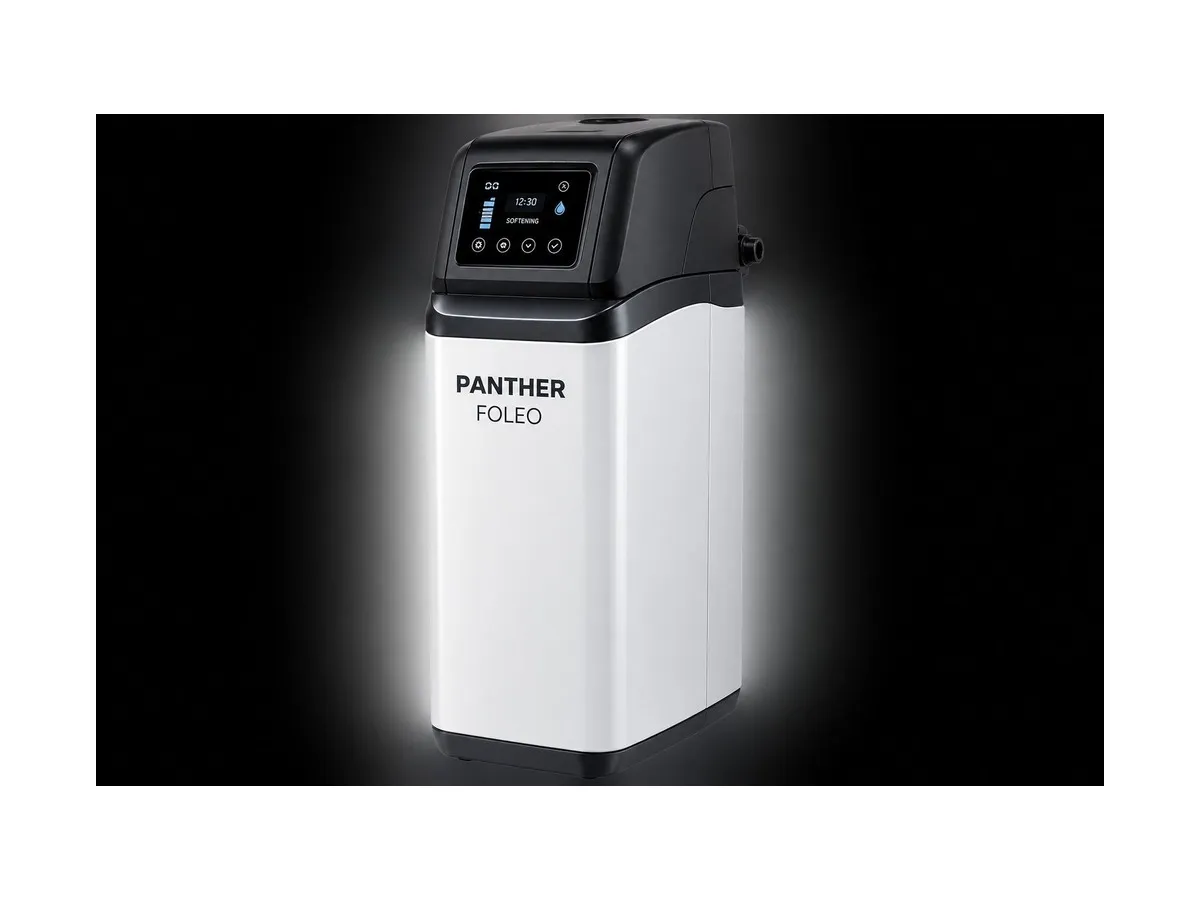
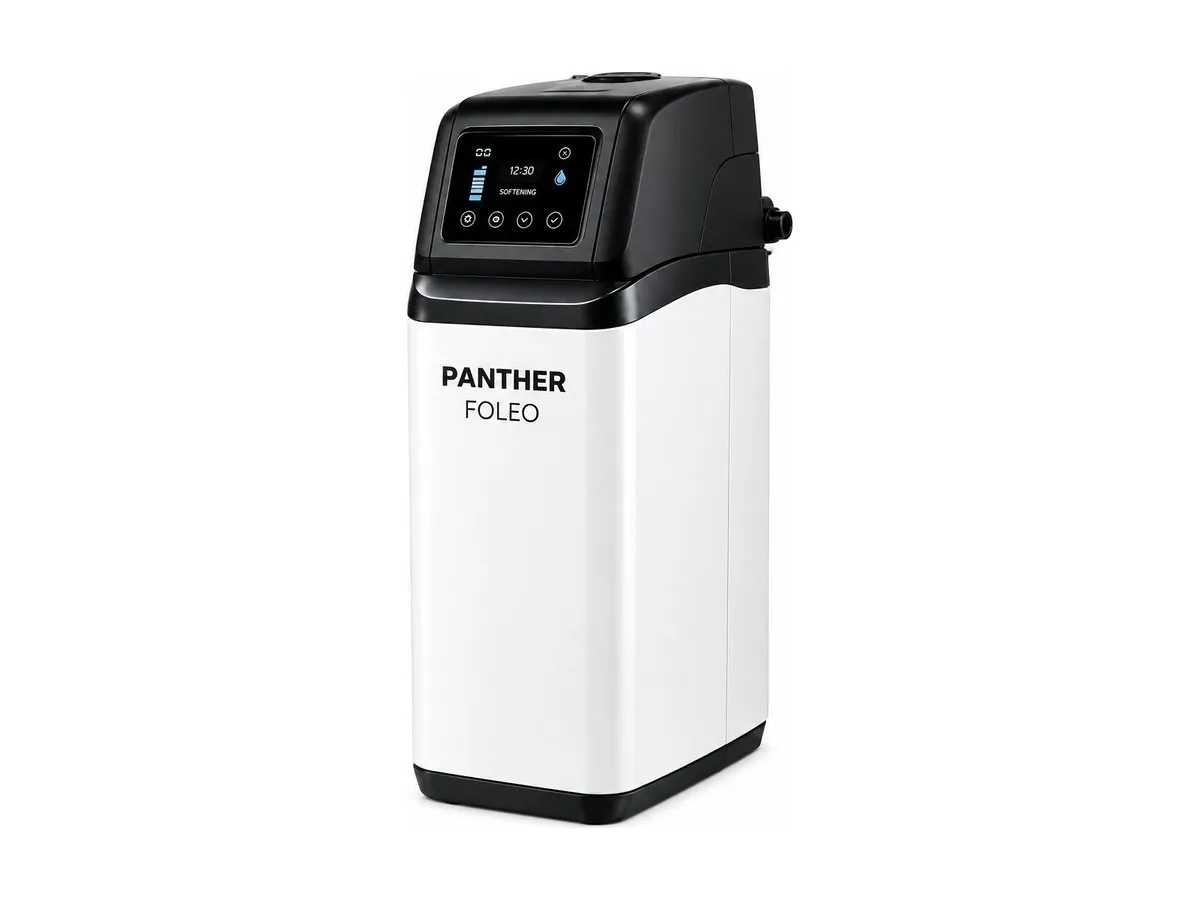
Corrige l'adoucisseur (fond blanc) et ajoute les 4 cartes équipements de la page Piscine
eau-adoucisseur.jpg : le client a fourni une version aplatie sur blanc
(RGBA transparent mal converti en JPEG la première fois) — recalée sur le
même canevas commun que les autres cartes traitement de l'eau.

Piscine « Des équipements de qualité » : 4 photos produit réelles
(filtre à sable Pentair, pompe à vitesse variable Pentair, électrolyseur
Hayward AquaRite, pompe à chaleur Full Inverter), logos de marque visibles
et confirmés par le client. Texte de la carte filtration ajusté (filtre à
sable, pas "sable ou cartouche" — l'image ne montre qu'un filtre à sable).
Passage en object-contain (au lieu du object-cover par défaut de `Photo`)
pour ne pas rogner les appareils ; même recalage sur canevas blanc commun
que pour les 6 cartes traitement de l'eau (process-piscine-equipements.cjs).

eau-charbon-actif.jpg reste en attente (fond noir non corrigé côté client).

diff --git a/src/data/site.js b/src/data/site.js
@@ -682,17 +682,19 @@ export const services = {
         ],
       },
 
-      /* Les visuels produit de la maquette sont des photos de catalogue
-         fabricant, protégées : on ne les reprend pas. Ces fichiers seront
-         fournis par le client à partir de matériel réellement installé —
-         en attendant, BrandLogo affiche un cadre neutre. */
+      /* Photos produit déposées le 18/08/2026 (matériel réellement installé
+         par PCE, logos de marque visibles et confirmés par le client —
+         Pentair, Hayward, Full Inverter). */
       equipements: {
         title: "Des équipements de qualité, pour une eau saine et économe",
         items: [
           {
             title: ['Filtration', 'haute performance'],
             photo: { lock: 741 },
-            text: "Des filtres à sable ou à cartouche de dernière génération pour une eau parfaitement limpide.",
+            /* Texte ajusté au visuel réel : filtre à SABLE (vanne
+               multivoies, manomètre, boîtier de commande) — l'ancien texte
+               mentionnait aussi la cartouche, absente de cette photo. */
+            text: 'Filtre à sable avec vanne multivoies et boîtier de commande, pour une eau parfaitement limpide.',
           },
           {
             title: ['Pompes', 'à vitesse variable'],

diff --git a/src/pages/Piscine.jsx b/src/pages/Piscine.jsx
@@ -230,14 +230,18 @@ function Equipements({ data }) {
                   repli logo PCE habituel de `Photo` — le titre juste en
                   dessous dit déjà de quoi il s'agit, pas besoin d'un cadre
                   en attente. Les 4 photos existent réellement à ce jour ;
-                  ce repli reste dormant tant qu'elles ne disparaissent pas. */}
+                  ce repli reste dormant tant qu'elles ne disparaissent pas.
+                  `object-contain` : jamais `object-cover` ici, qui
+                  rognerait les appareils (déjà détourés et recalés sur un
+                  fond blanc commun, voir process-piscine-equipements.cjs). */}
               <Photo
                 lock={item.photo.lock}
                 alt={item.title.join(' ')}
                 rounded=""
                 className="aspect-[4/3] w-full"
+                imgClassName="object-contain p-6"
                 fallback="blank"
-                bgClassName="bg-navy-50"
+                bgClassName="bg-white"
                 sizes="(min-width: 1280px) 25vw, (min-width: 640px) 50vw, 100vw"
               />
               <div className="flex flex-1 flex-col p-6">

diff --git a/src/data/imageManifest.js b/src/data/imageManifest.js
@@ -262,31 +262,39 @@ export const imageManifest = {
     ]
   },
   "equipement-filtration.jpg": {
-    "width": 386,
-    "height": 220,
+    "width": 1200,
+    "height": 900,
     "widths": [
-      386
+      400,
+      800,
+      1200
     ]
   },
   "equipement-pac-piscine.jpg": {
-    "width": 330,
-    "height": 220,
+    "width": 1200,
+    "height": 900,
     "widths": [
-      330
+      400,
+      800,
+      1200
     ]
   },
   "equipement-pompe-vitesse-variable.jpg": {
-    "width": 447,
-    "height": 447,
+    "width": 1200,
+    "height": 900,
     "widths": [
-      400
+      400,
+      800,
+      1200
     ]
   },
   "equipement-traitement-eau.jpg": {
-    "width": 352,
-    "height": 220,
+    "width": 1200,
+    "height": 900,
     "widths": [
-      352
+      400,
+      800,
+      1200
     ]
   },
   "marque-fluidra.jpg": {
